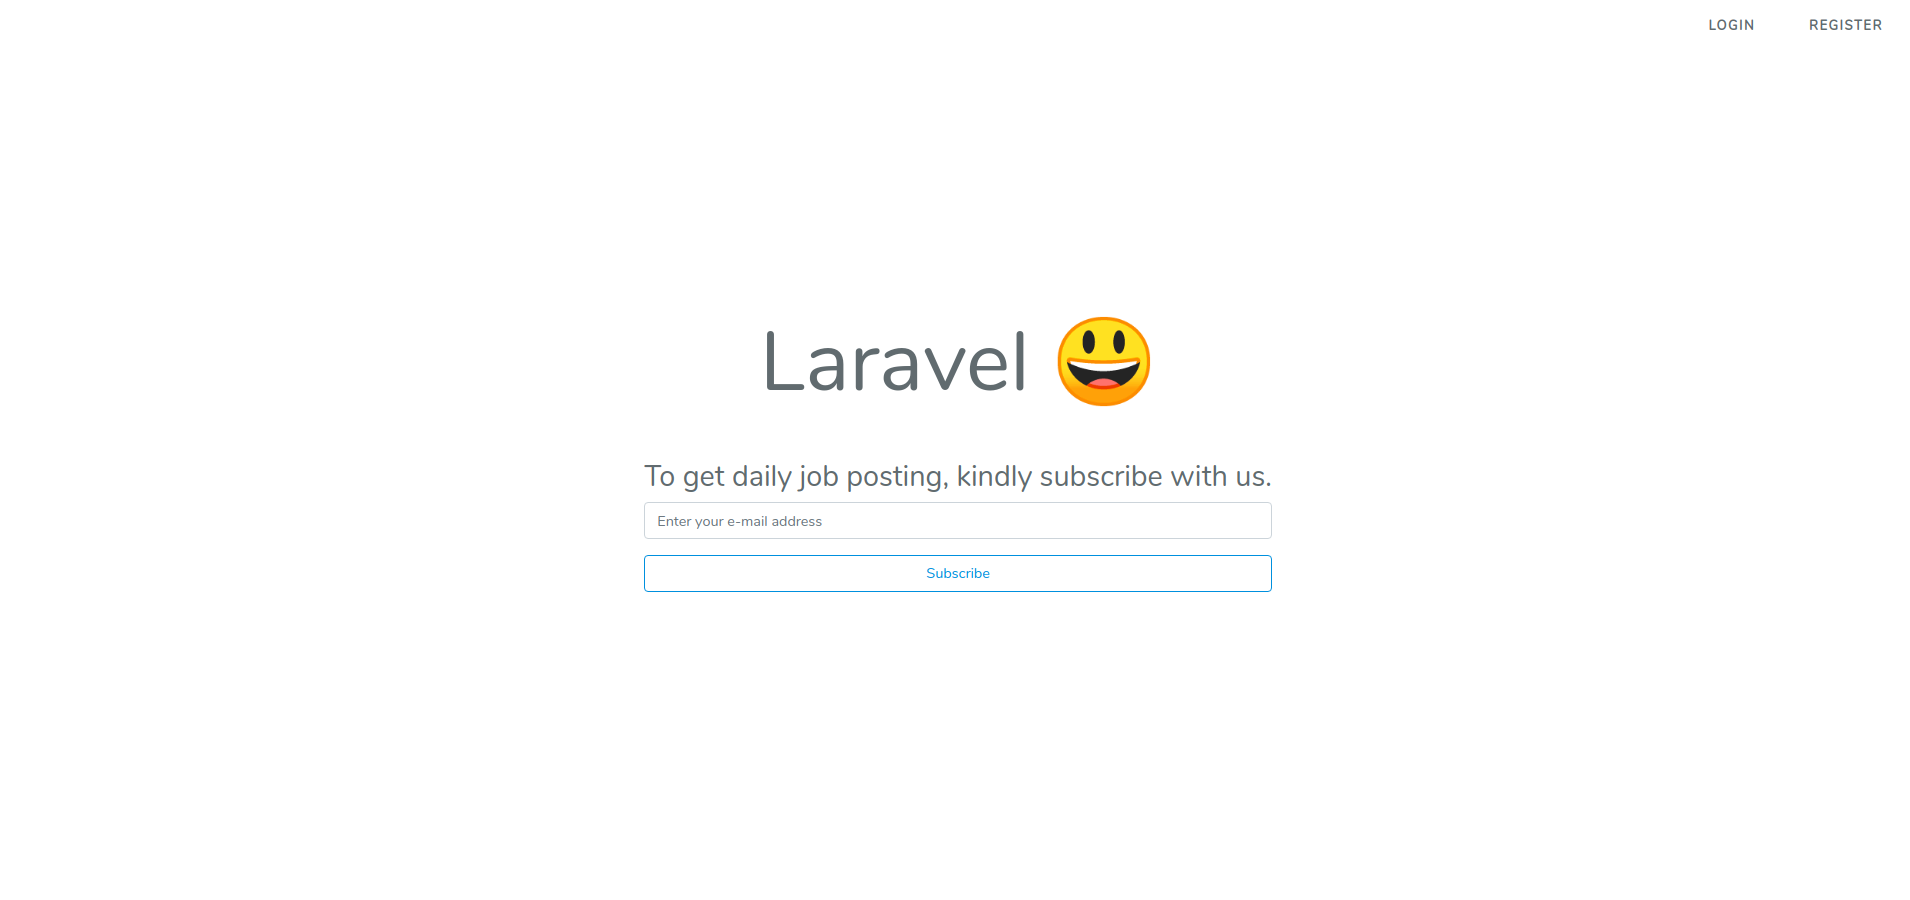
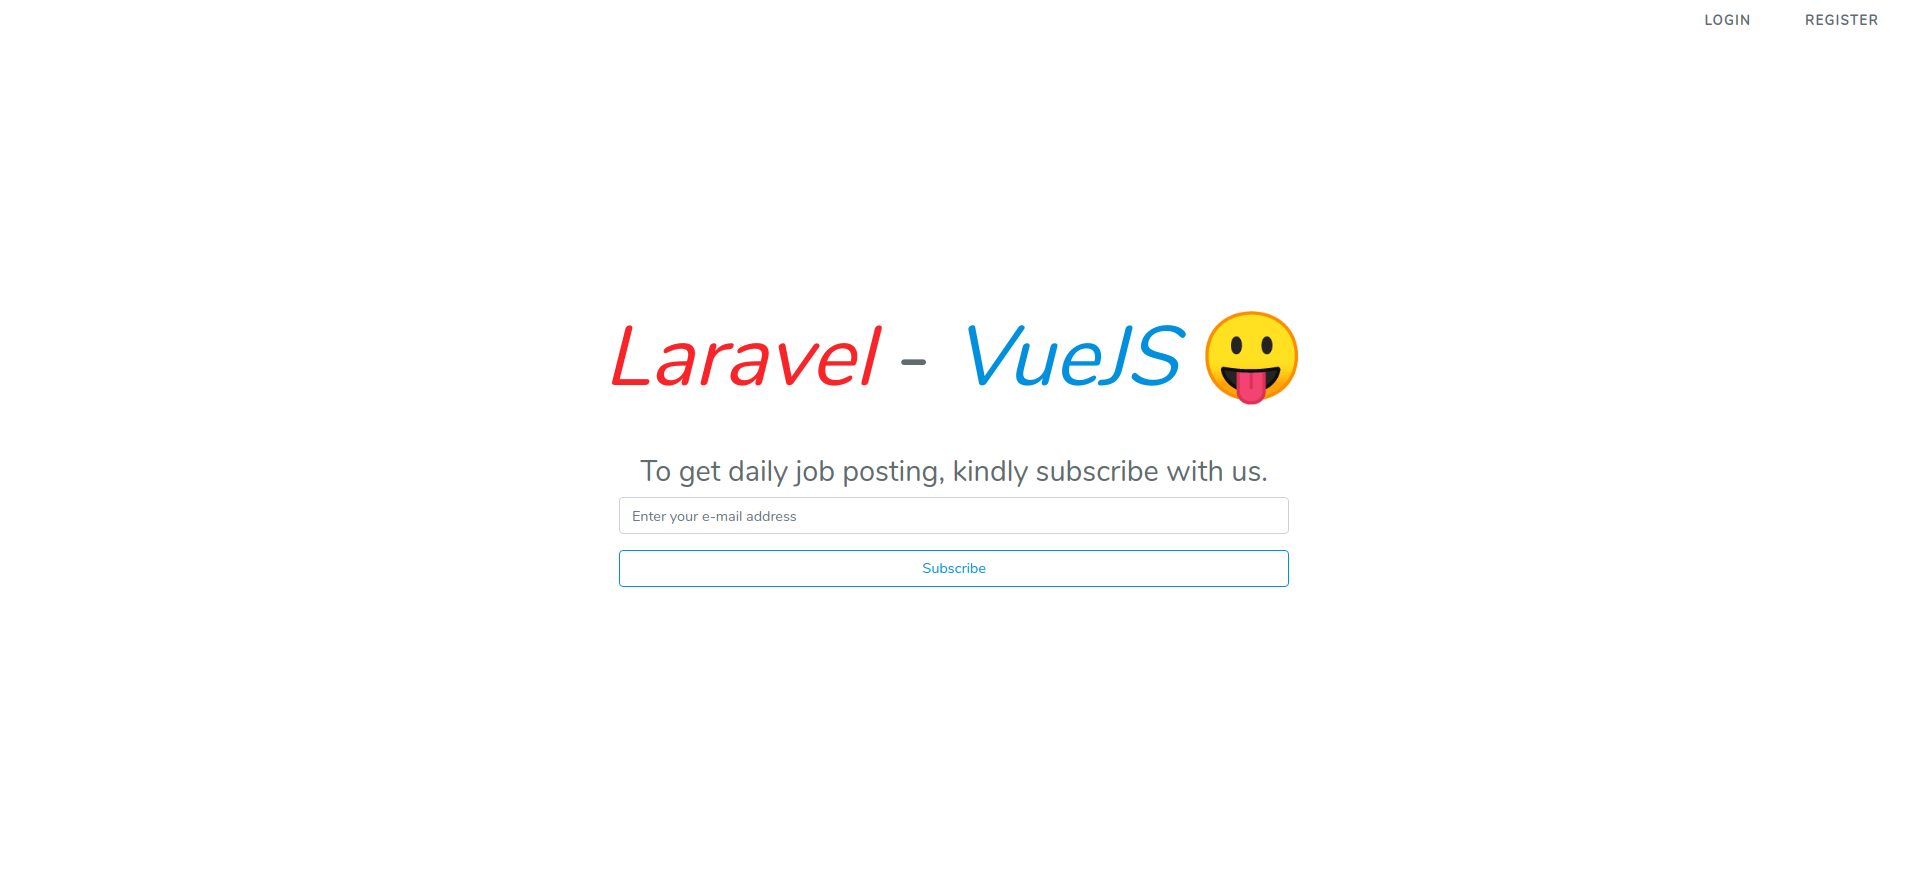
:clown_face: Mocking things.

diff --git a/resources/views/welcome.blade.php b/resources/views/welcome.blade.php
@@ -92,7 +92,7 @@
 
     <div class="content">
         <div class="title m-b-md">
-            Laravel {{ Faker\Factory::create()->emoji }}
+            <i class="text-danger">Laravel</i> - <i class="text-primary">VueJS</i> {{ Faker\Factory::create()->emoji }}
         </div>
         <div id="app">
             <div class="container">

diff --git a/README.md b/README.md
@@ -1,79 +1,15 @@
-<p align="center"><img src="https://res.cloudinary.com/dtfbvvkyp/image/upload/v1566331377/laravel-logolockup-cmyk-red.svg" width="400"></p>
+<p align="center"><img src="https://github.com/dev-techguy/rss-laravel-vue-js/blob/master/public/img/faker.png"></p>
 
-<p align="center">
-<a href="https://travis-ci.org/laravel/framework"><img src="https://travis-ci.org/laravel/framework.svg" alt="Build Status"></a>
-<a href="https://packagist.org/packages/laravel/framework"><img src="https://poser.pugx.org/laravel/framework/d/total.svg" alt="Total Downloads"></a>
-<a href="https://packagist.org/packages/laravel/framework"><img src="https://poser.pugx.org/laravel/framework/v/stable.svg" alt="Latest Stable Version"></a>
-<a href="https://packagist.org/packages/laravel/framework"><img src="https://poser.pugx.org/laravel/framework/license.svg" alt="License"></a>
-</p>
 
-## About Laravel
+## Guide
 
-Laravel is a web application framework with expressive, elegant syntax. We believe development must be an enjoyable and creative experience to be truly fulfilling. Laravel takes the pain out of development by easing common tasks used in many web projects, such as:
+Follow the steps to run and test the applications.
 
-- [Simple, fast routing engine](https://laravel.com/docs/routing).
-- [Powerful dependency injection container](https://laravel.com/docs/container).
-- Multiple back-ends for [session](https://laravel.com/docs/session) and [cache](https://laravel.com/docs/cache) storage.
-- Expressive, intuitive [database ORM](https://laravel.com/docs/eloquent).
-- Database agnostic [schema migrations](https://laravel.com/docs/migrations).
-- [Robust background job processing](https://laravel.com/docs/queues).
-- [Real-time event broadcasting](https://laravel.com/docs/broadcasting).
-
-Laravel is accessible, powerful, and provides tools required for large, robust applications.
-
-## Learning Laravel
-
-Laravel has the most extensive and thorough [documentation](https://laravel.com/docs) and video tutorial library of all modern web application frameworks, making it a breeze to get started with the framework.
-
-If you don't feel like reading, [Laracasts](https://laracasts.com) can help. Laracasts contains over 1500 video tutorials on a range of topics including Laravel, modern PHP, unit testing, and JavaScript. Boost your skills by digging into our comprehensive video library.
-
-## Laravel Sponsors
-
-We would like to extend our thanks to the following sponsors for funding Laravel development. If you are interested in becoming a sponsor, please visit the Laravel [Patreon page](https://patreon.com/taylorotwell).
-
-- **[Vehikl](https://vehikl.com/)**
-- **[Tighten Co.](https://tighten.co)**
-- **[Kirschbaum Development Group](https://kirschbaumdevelopment.com)**
-- **[64 Robots](https://64robots.com)**
-- **[Cubet Techno Labs](https://cubettech.com)**
-- **[Cyber-Duck](https://cyber-duck.co.uk)**
-- **[British Software Development](https://www.britishsoftware.co)**
-- **[Webdock, Fast VPS Hosting](https://www.webdock.io/en)**
-- **[DevSquad](https://devsquad.com)**
-- [UserInsights](https://userinsights.com)
-- [Fragrantica](https://www.fragrantica.com)
-- [SOFTonSOFA](https://softonsofa.com/)
-- [User10](https://user10.com)
-- [Soumettre.fr](https://soumettre.fr/)
-- [CodeBrisk](https://codebrisk.com)
-- [1Forge](https://1forge.com)
-- [TECPRESSO](https://tecpresso.co.jp/)
-- [Runtime Converter](http://runtimeconverter.com/)
-- [WebL'Agence](https://weblagence.com/)
-- [Invoice Ninja](https://www.invoiceninja.com)
-- [iMi digital](https://www.imi-digital.de/)
-- [Earthlink](https://www.earthlink.ro/)
-- [Steadfast Collective](https://steadfastcollective.com/)
-- [We Are The Robots Inc.](https://watr.mx/)
-- [Understand.io](https://www.understand.io/)
-- [Abdel Elrafa](https://abdelelrafa.com)
-- [Hyper Host](https://hyper.host)
-- [Appoly](https://www.appoly.co.uk)
-- [OP.GG](https://op.gg)
-- [云软科技](http://www.yunruan.ltd/)
-
-## Contributing
-
-Thank you for considering contributing to the Laravel framework! The contribution guide can be found in the [Laravel documentation](https://laravel.com/docs/contributions).
-
-## Code of Conduct
-
-In order to ensure that the Laravel community is welcoming to all, please review and abide by the [Code of Conduct](https://laravel.com/docs/contributions#code-of-conduct).
-
-## Security Vulnerabilities
-
-If you discover a security vulnerability within Laravel, please send an e-mail to Taylor Otwell via [taylor@laravel.com](mailto:taylor@laravel.com). All security vulnerabilities will be promptly addressed.
-
-## License
-
-The Laravel framework is open-sourced software licensed under the [MIT license](https://opensource.org/licenses/MIT).
+- Download the app.
+- Copy *.env.example* contents to *.env*.
+- Change the *DB_USERNAME* and *DB_PASSWORD* to yours.
+- Run *composer install*.
+- Run *npm install*.
+- Run *php artisan migrate:refresh --seed*.
+- Run *npm run dev*.
+- For Feature tests run *php artisan test*.
